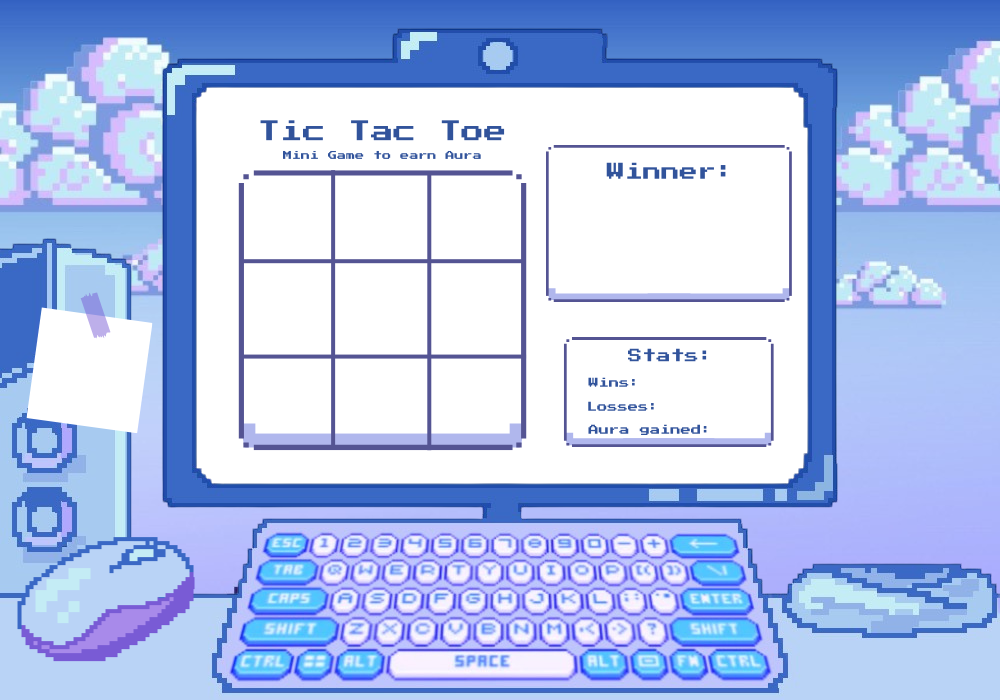
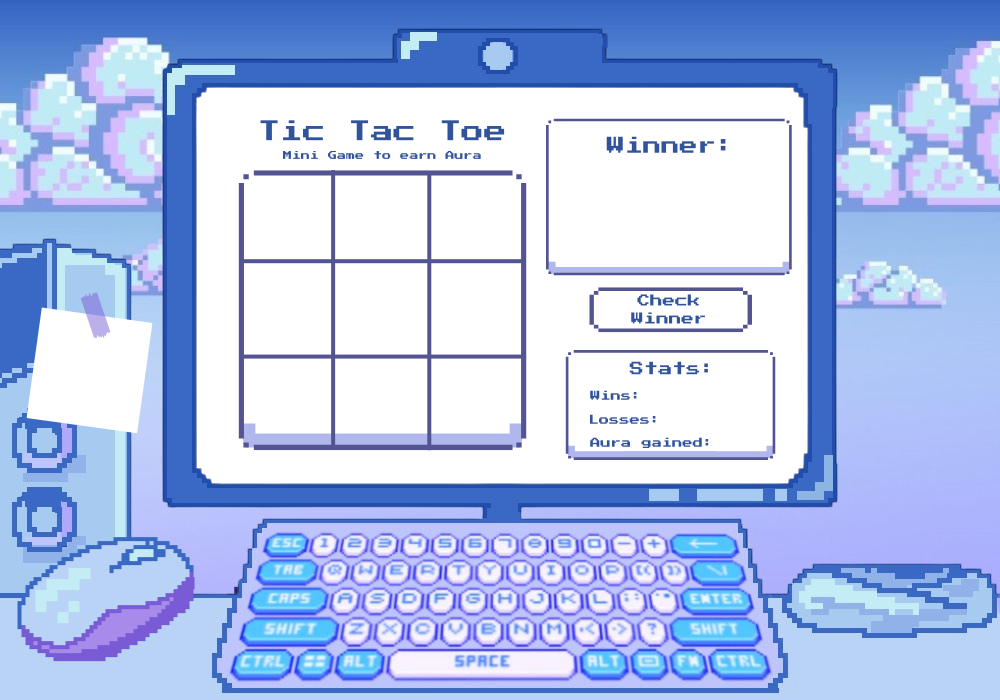
finished tictactoe minigame

diff --git a/src/TicTacToe.java b/src/TicTacToe.java
@@ -168,74 +168,73 @@ public class TicTacToe extends JFrame {
     public void checkWinner() {
         if ((layout[0] != null && layout[3] != null && layout[6] != null) &&
                 (layout[0].equals("X") && layout[3].equals("X") && layout[6].equals("X"))) { //X vertical
-            winner = "You win!";
+            winner = "You win";
             gameEnd = true;
         } else if ((layout[1] != null && layout[4] != null && layout[7] != null) &&
                 (layout[1].equals("X") && layout[4].equals("X") && layout[7].equals("X"))) {
-            winner = "You win!";
+            winner = "You win";
             gameEnd = true;
         } else if ((layout[2] != null && layout[5] != null && layout[8] != null) &&
                 (layout[2].equals("X") && layout[5].equals("X") && layout[8].equals("X"))) {
-            winner = "You win!";
+            winner = "You win";
             gameEnd = true;
         } else if ((layout[0] != null && layout[1] != null && layout[2] != null) &&
                 (layout[0].equals("X") && layout[1].equals("X") && layout[2].equals("X"))) { //X horizontal
-            winner = "You win!";
+            winner = "You win";
             gameEnd = true;
         } else if ((layout[3] != null && layout[4] != null && layout[5] != null) &&
                 (layout[3].equals("X") && layout[4].equals("X") && layout[5].equals("X"))) {
-            winner = "You win!";
+            winner = "You win";
             gameEnd = true;
         } else if ((layout[6] != null && layout[7] != null && layout[8] != null) &&
                 (layout[6].equals("X") && layout[7].equals("X") && layout[8].equals("X"))) {
-            winner = "You win!";
+            winner = "You win";
             gameEnd = true;
         } else if ((layout[0] != null && layout[4] != null && layout[8] != null) &&
                 (layout[0].equals("X") && layout[4].equals("X") && layout[8].equals("X"))) { //X diagonal
-            winner = "You win!";
+            winner = "You win";
             gameEnd = true;
         } else if ((layout[2] != null && layout[4] != null && layout[6] != null) &&
                 (layout[2].equals("X") && layout[4].equals("X") && layout[6].equals("X"))) {
-            winner = "You win!";
+            winner = "You win";
             gameEnd = true;
             // -----------------------------------------------------------------------------------
         } else if ((layout[0] != null && layout[3] != null && layout[6] != null) &&
                 (layout[0].equals("O") && layout[3].equals("O") && layout[6].equals("O"))) { //O vertical
-            winner = "The AI wins!";
+            winner = "AI wins";
             gameEnd = true;
         } else if ((layout[1] != null && layout[4] != null && layout[7] != null) &&
                 (layout[1].equals("O") && layout[4].equals("O") && layout[7].equals("O"))) {
-            winner = "You win!";
+            winner = "AI wins";
             gameEnd = true;
         } else if ((layout[2] != null && layout[5] != null && layout[8] != null) &&
                 (layout[2].equals("O") && layout[5].equals("O") && layout[8].equals("O"))) {
-            winner = "You win!";
+            winner = "AI wins";
             gameEnd = true;
         } else if ((layout[0] != null && layout[1] != null && layout[2] != null) &&
                 (layout[0].equals("O") && layout[1].equals("O") && layout[2].equals("O"))) { //O horizontal
-            winner = "You win!";
+            winner = "AI wins";
             gameEnd = true;
         } else if ((layout[3] != null && layout[4] != null && layout[5] != null) &&
                 (layout[3].equals("O") && layout[4].equals("O") && layout[5].equals("O"))) {
-            winner = "You win!";
+            winner = "AI wins";
             gameEnd = true;
         } else if ((layout[6] != null && layout[7] != null && layout[8] != null) &&
                 (layout[6].equals("O") && layout[7].equals("O") && layout[8].equals("O"))) {
-            winner = "You win!";
+            winner = "AI wins";
             gameEnd = true;
         } else if ((layout[0] != null && layout[4] != null && layout[8] != null) &&
                 (layout[0].equals("O") && layout[4].equals("O") && layout[8].equals("O"))) { //O diagonal
-            winner = "You win!";
+            winner = "AI wins";
             gameEnd = true;
         } else if ((layout[2] != null && layout[4] != null && layout[6] != null) &&
                 (layout[2].equals("O") && layout[4].equals("O") && layout[6].equals("O"))) {
-            winner = "You win!";
+            winner = "AI wins";
             gameEnd = true;
         } else if (checkAllFilled()) {
-            winner = "Draw!";
+            winner = "Draw";
             gameEnd = true;
         }
-        System.out.println(winner);
     }
 
     public void getButtonReady(int buttonNum) {
@@ -252,6 +251,10 @@ public class TicTacToe extends JFrame {
 
     public JButton getButton(int index) {
         return buttons[index];
+    }
+
+    public String getWinner() {
+        return winner;
     }
 
 //    public static void main(String[] args) {

diff --git a/src/ButtonClass.java b/src/ButtonClass.java
@@ -13,7 +13,7 @@ public class ButtonClass {
     private JButton livestreamApp, nextButton, mailApp, bookBtn,
             editApp, powerOn, shopApp, gamesApp, endDay, accept,
             decline, next, ticTacToeApp, rpsGame, singleBtn, doubleBtn;
-    private JButton tic1,tic2, tic3, tic4, tic5, tic6, tic7, tic8, tic9;
+    private JButton tic1,tic2, tic3, tic4, tic5, tic6, tic7, tic8, tic9, checkWinner;
     private JTextArea livestreamChat;
     private JScrollPane scrollPane;
     private JTextField usernameText, passwordText;
@@ -25,6 +25,7 @@ public class ButtonClass {
     private boolean livestreamExited;
     private Font pressStartFont;
     private TicTacToe ticTacToe;
+    private JLabel TTTWin, TTTLose, TTTDraw, TTTNull;
 
 
     public ButtonClass(Frame cardLayoutPanel,Player player)  {
@@ -69,6 +70,11 @@ public class ButtonClass {
         tic7 = ticTacToe.getButton(6);
         tic8 = ticTacToe.getButton(7);
         tic9 = ticTacToe.getButton(8);
+        TTTWin = new JLabel(new ImageIcon("src/images/TicTacToeWin.png"));
+        TTTLose = new JLabel(new ImageIcon("src/images/TicTacToeLose.png"));
+        TTTDraw = new JLabel(new ImageIcon("src/images/TicTacToeDraw.png"));
+        TTTNull = new JLabel(new ImageIcon("src/images/TicTacToeNull.png"));
+        checkWinner = new JButton();
         rpsGame = new JButton();
         singleBtn = new JButton();
         doubleBtn = new JButton();
@@ -137,23 +143,25 @@ public class ButtonClass {
         //testing
         customizeButton(powerOn);
 
-        setButtonOpaque(tic1);
+        customizeButton(tic1);
 
-        setButtonOpaque(tic2);
+        customizeButton(tic2);
 
-        setButtonOpaque(tic3);
+        customizeButton(tic3);
 
-        setButtonOpaque(tic4);
+        customizeButton(tic4);
 
-        setButtonOpaque(tic5);
+        customizeButton(tic5);
 
-        setButtonOpaque(tic6);
+        customizeButton(tic6);
 
-        setButtonOpaque(tic7);
+        customizeButton(tic7);
 
-        setButtonOpaque(tic8);
+        customizeButton(tic8);
 
-        setButtonOpaque(tic9);
+        customizeButton(tic9);
+
+        customizeButton(checkWinner);
 //        powerOn.setOpaque(true);
 //        powerOn.setContentAreaFilled(true);
 //        powerOn.setBorderPainted(true);
@@ -193,6 +201,7 @@ public class ButtonClass {
         tic7.setBounds(240,335,87,85);
         tic8.setBounds(332,335,87,85);
         tic9.setBounds(425,335,87,85);
+        checkWinner.setBounds(585,273,150,40);
 
         //livestreamApp.setVisible(false);
 
@@ -213,6 +222,15 @@ public class ButtonClass {
         btnPanel.add(doubleBtn);
         btnPanel.add(tic1);
         btnPanel.add(tic2);
+        btnPanel.add(tic2);
+        btnPanel.add(tic3);
+        btnPanel.add(tic4);
+        btnPanel.add(tic5);
+        btnPanel.add(tic6);
+        btnPanel.add(tic7);
+        btnPanel.add(tic8);
+        btnPanel.add(tic9);
+        btnPanel.add(checkWinner);
 
         addActionListeners();
     }
@@ -370,6 +388,33 @@ public class ButtonClass {
         ticTacToeApp.addActionListener(e -> {
             cardLayoutPanel.showCard("TicTacToe");
         });
+
+        checkWinner.addActionListener(e -> {
+            if (ticTacToe.getWinner().equals("You win")) {
+                TTTWin.setBounds(570,170,175,52);
+                cardLayoutPanel.getTicTacToe().add(TTTWin);
+                TTTNull.setVisible(false);
+                cardLayoutPanel.getTicTacToe().revalidate();
+                cardLayoutPanel.getTicTacToe().repaint();
+            } else if (ticTacToe.getWinner().equals("AI wins")) {
+                TTTLose.setBounds(573,170,170,50);
+                cardLayoutPanel.getTicTacToe().add(TTTLose);
+                TTTNull.setVisible(false);
+                cardLayoutPanel.getTicTacToe().revalidate();
+                cardLayoutPanel.getTicTacToe().repaint();
+            } else if (ticTacToe.getWinner().equals("Draw")) {
+                TTTDraw.setBounds(570,170,170,50);
+                cardLayoutPanel.getTicTacToe().add(TTTDraw);
+                TTTNull.setVisible(false);
+                cardLayoutPanel.getTicTacToe().revalidate();
+                cardLayoutPanel.getTicTacToe().repaint();
+            } else {
+                TTTNull.setBounds(565,170,195,48);
+                cardLayoutPanel.getTicTacToe().add(TTTNull);
+                cardLayoutPanel.getTicTacToe().revalidate();
+                cardLayoutPanel.getTicTacToe().repaint();
+            }
+        });
     }
 
 //    public void setContinueButtonListener(ActionListener listener) {
@@ -502,6 +547,10 @@ public class ButtonClass {
 
     public JButton getTic9() {
         return tic9;
+    }
+
+    public JButton getCheckWinner() {
+        return checkWinner;
     }
 
     public void addPassword() {

diff --git a/src/Frame.java b/src/Frame.java
@@ -40,7 +40,11 @@ public class Frame extends JFrame implements ActionListener {
         JPanel mailScreen = PanelClass.createPanel("src/MailImages/mailhomepage.png");
         auraInfo = PanelClass.createPanel("src/images/tutorial.jpeg");
         JPanel gamesScreen = PanelClass.createPanel("src/images/GamesScreen.png");
-        JPanel ticTacToe = PanelClass.createPanel("src/images/TicTacToe.png");
+        ticTacToe = PanelClass.createPanel("src/images/TicTacToe.png");
+        JPanel ticTacToeWin = PanelClass.createPanel("src/images/TicTacToeWin.png");
+        JPanel ticTacToeLose = PanelClass.createPanel("src/iamges/TicTacToeLose.png");
+        JPanel ticTacToeNull = PanelClass.createPanel("src/images/TicTacToeNull.png");
+        JPanel ticTacToeDraw = PanelClass.createPanel("src/images/TicTacToeDraw.png");
         JPanel rpsScreen = PanelClass.createPanel("src/images/RockPaperScissorsGame/startScreen.png");
 
 
@@ -198,6 +202,10 @@ public class Frame extends JFrame implements ActionListener {
         gamesScreen.setLayout(null);
         rpsScreen.setLayout(null);
         ticTacToe.setLayout(null);
+        ticTacToeLose.setLayout(null);
+        ticTacToeDraw.setLayout(null);
+        ticTacToeWin.setLayout(null);
+        ticTacToeNull.setLayout(null);
 
         //add buttons
         startScreen.add(buttonClass.getUsernameText());
@@ -223,6 +231,7 @@ public class Frame extends JFrame implements ActionListener {
         ticTacToe.add(buttonClass.getTic7());
         ticTacToe.add(buttonClass.getTic8());
         ticTacToe.add(buttonClass.getTic9());
+        ticTacToe.add(buttonClass.getCheckWinner());
 
         mainPanel.add(startScreen, "StartScreen");
         mainPanel.add(tutorialScreen, "TutorialScreen");
@@ -236,6 +245,10 @@ public class Frame extends JFrame implements ActionListener {
         mainPanel.add(gamesScreen, "GamesScreen");
         mainPanel.add(ticTacToe, "TicTacToe");
         mainPanel.add(rpsScreen,"RockPaperScissors");
+        mainPanel.add(ticTacToeDraw, "TicTacToeDraw");
+        mainPanel.add(ticTacToeNull, "TicTacToeNull");
+        mainPanel.add(ticTacToeWin, "TicTacToeWin");
+        mainPanel.add(ticTacToeLose, "TicTacToeLose");
 
         livestreamScreen.add(scrollPane);
 
@@ -363,5 +376,9 @@ public class Frame extends JFrame implements ActionListener {
 
     public JPanel getAppScreen() {
         return appScreen;
+    }
+
+    public JPanel getTicTacToe() {
+        return ticTacToe;
     }
 }
